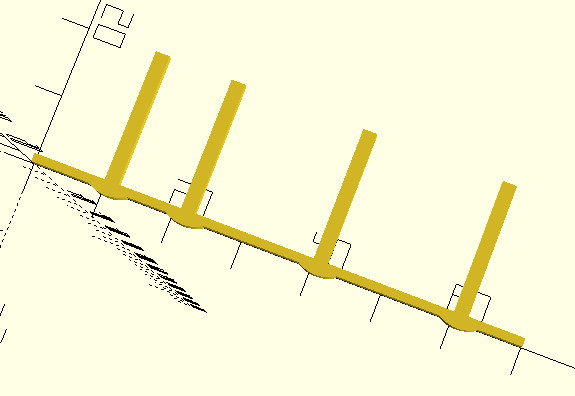
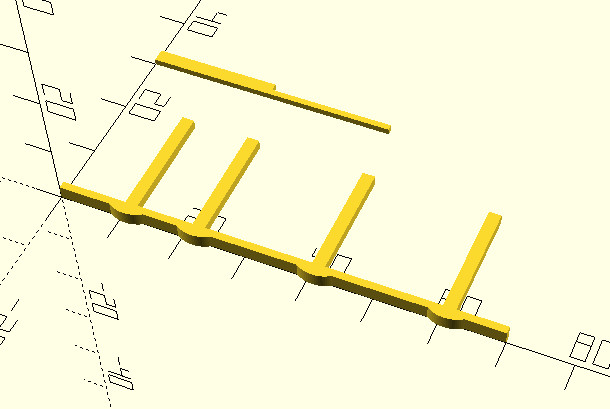
XT897 Refined.

diff --git a/phone/xt897_btn.htm b/phone/xt897_btn.htm
@@ -35,24 +35,31 @@ translate([60, 0, 0]) cube([2, 20, 1.6]);
 </p>
 <pre class="brush:scad">
 $fn  = 100;
-
+ 
 module fan() {
     difference() {
         translate([0, 0, 0]) resize([10, 10, 2.2]) cylinder(2.2, 5, 5);
         translate([-5, -4, 0]) cube([10, 10, 2.2]);
     }
 }
-
+ 
 cube([70, 1.2, 2.2]);
 translate([10, 0, 0]) cube([2, 20, 1.6]);
 translate([21, 0, 0]) cube([2, 20, 1.6]);
 translate([40, 0, 0]) cube([2, 20, 1.6]);
 translate([60, 0, 0]) cube([2, 20, 1.6]);
-
+ 
 translate([11, 4.2, 0]) fan();
 translate([22, 4.2, 0]) fan();
 translate([41, 4.2, 0]) fan();
 translate([61, 4.2, 0]) fan();
+
+translate([0, 30, 0]) {
+    union() {
+        cube([20, 2.2, 1]);
+        cube([40, 1, 1]);
+    }
+}
 </pre>
 <p>
 <img src="xt897_btn/7.jpg" class="maxSize"><br><br>
